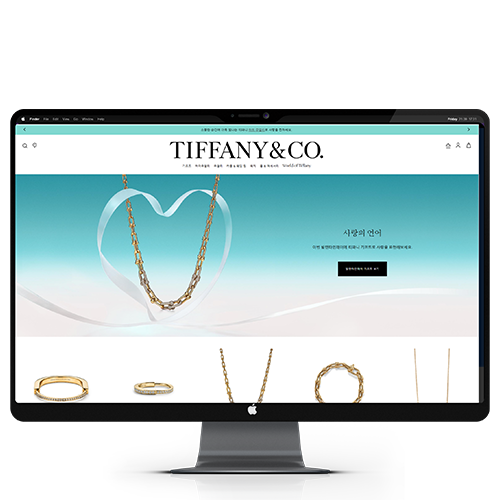
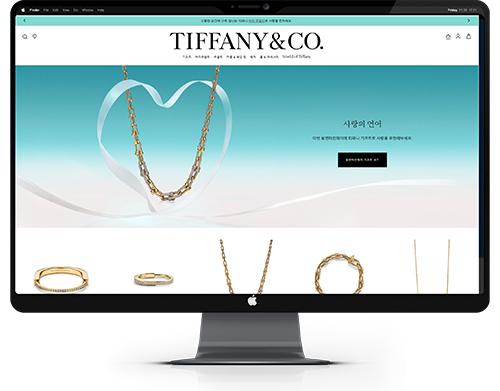
-이미지 리사이징 -스타일 수정 -해시태그 수정정

diff --git a/index.html b/index.html
@@ -160,13 +160,13 @@
                     </div>
                     <ul class="point">
                       <li>
-                        <span>React JS</span>
+                        <span>#React JS</span>
                       </li>
                       <li>
-                        <span>Tailwind.CSS</span>
+                        <span>#Tailwind.CSS</span>
                       </li>
                       <li>
-                        <span>GSAP</span>
+                        <span>#GSAP</span>
                       </li>
                     </ul>
                     <div class="btn_area">
@@ -311,13 +311,13 @@
                     </div>
                     <ul class="point">
                       <li>
-                        <span>바닐라 자바스크립트</span>
+                        <span>#바닐라 자바스크립트</span>
                       </li>
                       <li>
-                        <span>슬라이드 및 호버 이벤트 JS 사용</span>
+                        <span>#이벤트 효과</span>
                       </li>
                       <li>
-                        <span>반응형 적용</span>
+                        <span>#반응형형</span>
                       </li>
                     </ul>
                     <div class="btn_area">
@@ -386,13 +386,13 @@
                     </div>
                     <ul class="point">
                       <li>
-                        <span>Tailwind CSS</span>
+                        <span>#Tailwind CSS</span>
                       </li>
                       <li>
-                        <span>Swiper.js</span>
+                        <span>#Swiper.js</span>
                       </li>
                       <li>
-                        <span>반응형 적용</span>
+                        <span>#반응형</span>
                       </li>
                     </ul>
                     <div class="btn_area">
@@ -464,10 +464,13 @@
                     </div>
                     <ul class="point">
                       <li>
-                        <span>React JS</span>
+                        <span>#React.JS</span>
                       </li>
                       <li>
-                        <span>Swiper.js</span>
+                        <span>#Swiper.js</span>
+                      </li>
+                      <li>
+                        <span>#netlify 배포</span>
                       </li>
                     </ul>
                     <div class="btn_area">

diff --git a/src/style.css b/src/style.css
@@ -27,7 +27,6 @@ main > h2 > span{color:#f2f2f2;}
 
 @media screen and (max-width:768px) {
   .num_portfolio {font-size: 20px;}
-	.point > li > span {font-size: 16px;}
 	.skills .skill_list > li {position: relative; font-size: 16px; width: 100%; font-weight: 400;}
   .skills .skill_list > li::after{content: ""; clear: both; position: absolute; width: 94%; height: 0.5px; left: 50%; bottom: -15px; margin: 0 auto; border-bottom: 1px solid #5f5f5f; transform: translate(-50%, -50%);}
   .skills .skill_list > li:last-child:after{position: inherit;}
@@ -40,7 +39,7 @@ main > h2 > span{color:#f2f2f2;}
 .portfolio {padding-bottom: 80px;}
 .portfolio h2 {max-width: 1380px; margin: 0 auto; padding: 80px 0;}
 .portfolio h2::after {left: 11%;}
-.portfolio .portfolio_list li .comm-inner {display: flex; align-items: flex-start; justify-content: space-between; max-width: 1280px; margin: 0 auto; padding: 40px 0;}
+.portfolio .portfolio_list li .comm-inner {display: flex; align-items: flex-start; justify-content: space-between; max-width: 1280px; margin: 0 auto; padding: 6rem 0}
 .portfolio .portfolio_list li .comm-inner > div{flex: 1;}
 .portfolio .portfolio_list li + li {margin: 5rem auto}
 .portfolio .portfolio_list li:nth-child(even) .img_area { order: 2;}
@@ -71,7 +70,6 @@ main > h2 > span{color:#f2f2f2;}
 	.portfolio .portfolio_list > li:nth-child(7) .portfolio_cont {padding-top: 8%;}
 	.portfolio .portfolio_list > li:nth-child(9) .portfolio_cont {padding-top: 8%;}
 }
-
 .btn_top { visibility: hidden; position: fixed; bottom: 24px; right: 32px; width: 58px; height: 58px; border: 0; background-color: transparent; text-align: center; color: #fff; font-size: 15px; font-weight: 500; cursor: pointer;}
 .btn_top::before {position: absolute; top: 0; left: 0; content: ''; width: 100%; height: 100%; border-radius: 5px; background-color: #a69eb0; transition: all 0.2s linear;}
 .btn_top::after {position: absolute; top: 50%; left: 0; right: 0; content: 'TOP'; transform: translateY(-50%);}

diff --git a/src/common.css b/src/common.css
@@ -50,14 +50,15 @@ h3 {font-size: 32px; font-weight: 500; letter-spacing: -1px; color: #0b1a2e;}
 .skill_list li .title span{display: block; margin-left: 8px; font-size: 18px;}
 .num_portfolio {margin-right: 3px; color: #2e70d0; font-size: 40px; font-weight: 400;}
 .summary {line-height: 1.3; margin: 7px 0 40px 0; font-size: 14px; font-weight: 400; word-break: keep-all;}
-.portfolio .portfolio_list .point li+li{margin: 14px 0 0 0; padding-top: 0; background: transparent;}
+.portfolio .portfolio_list .point li+li{margin: 0; padding-top: 0; background: transparent;}
 .portfolio .portfolio_list li:nth-child(3) .point li{background-color: transparent;}
 .portfolio .portfolio_list li:nth-child(1) .point li{background-color: transparent;}
-.point > li > span {position: relative; line-height: 1.3; padding-left: 20px; font-size: 14px; word-break: keep-all;}
-.point > li > span::before {position: absolute; top: 6px; left: 0; content: ''; width: 6px; height: 6px; border-radius: 100%; background-color: #a69eb0;}
+.portfolio .portfolio_list .point{display: flex; align-items: center;}
+.portfolio .portfolio_list .point span {display: block;  padding-left: 18px; font-size: 14px; word-break: keep-all;}
+/* .point > li > span::before {position: absolute; top: 6px; left: 0; content: ''; width: 6px; height: 6px; border-radius: 100%; background-color: #a69eb0;} */
 
-@media screen and (max-width:1024px) {
-	.portfolio .portfolio_list .point li{text-align: left;}
+@media screen and (max-width:768px) {	
+	.point > li > span {font-size: 14px;}
 }
 .btn_area {margin: 36px 0; text-align: left;}
 .btn_area .btn_goto {font-size: 15px; display: inline-block; width: 115px; text-align: center; padding: 10px 0; border-radius: 25px; background-color: #2e70d0; color: #fff; letter-spacing: 1px;}
